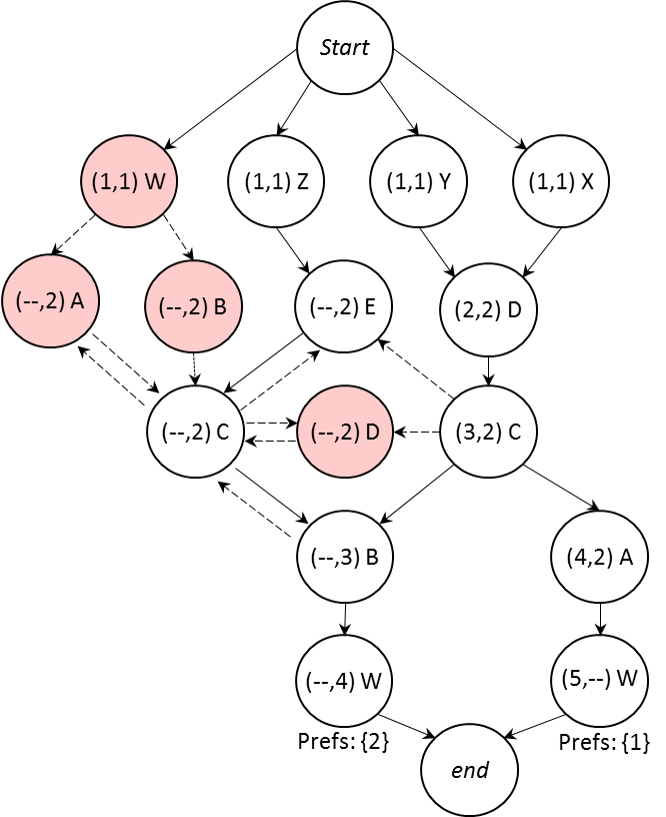
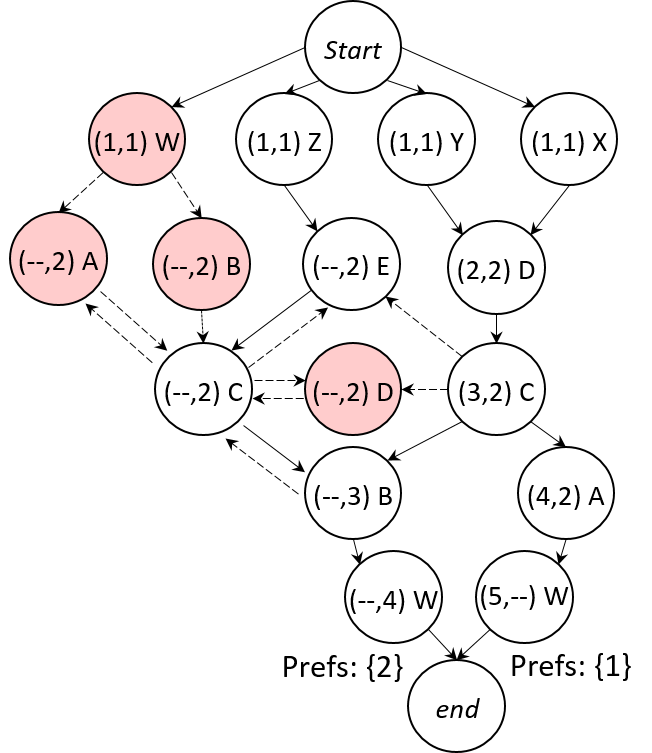
edits to 5

Changed region(s): [[0.0, 0.0, 0.9816, 1.0], [0.6135, 0.2749, 0.6442, 0.3054], [0.3988, 0.2749, 0.4294, 0.3054]]

diff --git a/paper/compilation.tex b/paper/compilation.tex
@@ -161,12 +161,12 @@ where $\odot$ stands for an arbitrary regular binary operator. Preferences neste
   \hdr{\large Topology}{}
   \vspace*{-1\baselineskip}
 
-  \includegraphics[width=.8\columnwidth]{figures/topology}
+  \includegraphics[width=.6\columnwidth]{figures/topology}
 
   \hdr{\large Policy Automata}{}
   \vspace*{1\baselineskip}
 
-  \begin{tikzpicture}[>=stealth',shorten >=1pt,auto,node distance=1.6cm]
+  \begin{tikzpicture}[>=stealth',shorten >=1pt,auto,node distance=1.4cm,minimum size=1cm]
     \state{0}{$0$}{              }{}
     \state{1}{$1$}{right of=0}{}
     \state{2}{$2$}{right of=1}{}
@@ -202,19 +202,19 @@ where $\odot$ stands for an arbitrary regular binary operator. Preferences neste
   ~~
   %
   \begin{minipage}[t]{.5\linewidth}
-  \hdr{\large Product Graph}{}
+  \hdr{\large Product Graph IR}{}
   \vspace*{-1\baselineskip}
   %
-  \includegraphics[width=.8\columnwidth]{figures/productgraph}
+  \includegraphics[width=.65\columnwidth]{figures/productgraph}
   \end{minipage}
 
   \hrulefill
 
-  \caption{Example Product graph construction.}
+  \caption{Example Product Graph IR construction.}
   \label{fig:example-compilation}
 \end{figure*}
 
-Now that the user policy exists in a simplified form, we must consider topology. In particular, we want a compact representation that describes all the possible ways BGP route announcements can flow through the network subject to the policy and topology constraints. Our PGIR captures these dependencies by ``intersecting" each of the regular automata corresponding to the RIR path preferences, and the topology. Paths through the PGIR correspond to real paths through the topology that satisfy the user constraints. 
+Now that the user policy exists in a simplified form, we must consider topology. In particular, we want a compact representation that describes all the possible ways BGP route announcements can flow through the network subject to the policy and topology constraints. Our PGIR captures these dependencies by ``intersecting" each of the regular automata corresponding to the RIR path preferences, and the topology. Paths through the PGIR correspond to real paths through the topology that satisfy the user constraints.
 
 %Finding paths through a graph subject to regular constraints has been studied extensively in the database literature~\ref{bib:todo}, and has been applied to networks in the past~\ref{bib:todo}.
 
@@ -259,7 +259,7 @@ Figure~\ref{fig:example-compilation} shows the policy automata for each regular 
 The figure also shows the PGIR after intersecting the topology and policy automata. Every path in it corresponds to a concrete path in the topology. In particular, every path through the PGIR that ends at a node $v$ such that the preference function $P(v) = \set{i_1, \dots, i_m}$ is non-empty, is a valid topological path that satisfies the policy constraints and results in a particular path with preferences $i_1$ through $i_m$.
 %
 For example, the path $X \cdot D \cdot C \cdot A \cdot W$ is a valid path in the topology that BGP route announcements might take, which would lead to obtaining the most prefered preference $1$.
-BGP control messages can start from peer X, which would match the $out$ transition from both automata, leading to state $1$ in the first automaton, and state $1$ in the second automaton. This is reflected in the product graph by the node with state $(1,1) X$. From here, if X were to advertise this route to D, it would result in the path $D X$, which would lead to state $2$ in the first automaton, and state $2$ in the second automaton, and so on. 
+BGP control messages can start from peer X, which would match the $out$ transition from both automata, leading to state $1$ in the first automaton, and state $1$ in the second automaton. This is reflected in the product graph by the node with state $(1,1) X$. From here, if X were to advertise this route to D, it would result in the path $D X$, which would lead to state $2$ in the first automaton, and state $2$ in the second automaton, and so on.
 %
 The ``--" state indicates it is dropped from the corresponding automaton. Since node $(5,-) W$ is in an accepting state for the first automata, it indicates this path has preference 1.
 
